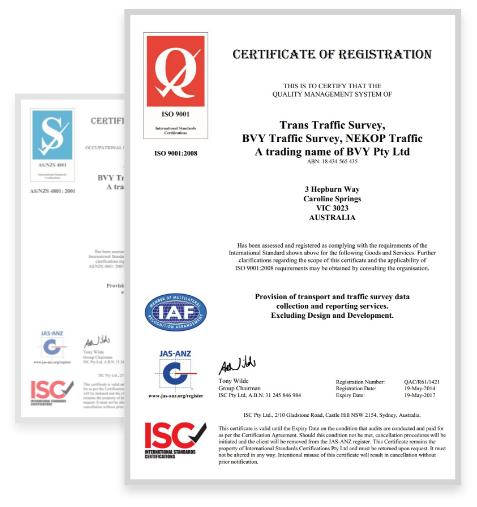
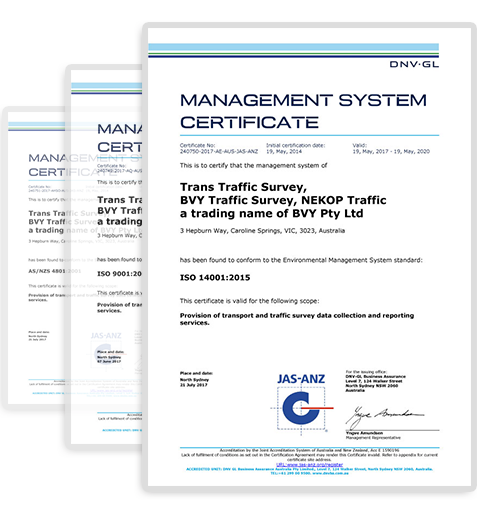
Changed header and make brighter

Changed region(s): [[0.0, 0.0, 1.0, 0.9763]]

diff --git a/css/style.css b/css/style.css
@@ -128,12 +128,12 @@ a:hover, a:focus {
 
  #menu .navbar-brand i.fa {
 	font-size: 18px;
-	color: #05C3CB;
+	color: #7fdce6;
 	vertical-align: top;
 } 
 #menu.navbar-default .navbar-nav > li > a {
 	text-transform: uppercase;
-	color: rgba(0,0,0,0.4);
+	color: rgba(0,0,0,0.5);
 	font-size: 0.875em;
 	letter-spacing: 1px;
 }
@@ -165,7 +165,7 @@ a:hover, a:focus {
 	color: #fff; /* #414a52;*/
 	font-weight: bold;
 	letter-spacing: 0.05em;
-	background-color: #05C3CB;
+	background-color: #7fdce6;
 	border: 0;
 	padding: 0.8em 3em;
 	margin: 0;
@@ -175,12 +175,12 @@ a:hover, a:focus {
 	transition: all 0.3s;
 }
 .btn-custom:hover, .btn-custom:focus, .btn-custom.focus, .btn-custom:active, .btn-custom.active {
-	background-color: #05C3CB;
+	background-color: #7fdce6;
 	color: #414a52;
 }
 .btn-default {
 	text-transform: uppercase;
-	color: #05C3CB;
+	color: #7fdce6;
 	background-color: #414a52;
 	border: 0;
 	padding: 14px 20px;
@@ -191,18 +191,19 @@ a:hover, a:focus {
 	transition: all 0.3s;
 }
 .btn-default:hover, .btn-default:focus, .btn-default.focus, .btn-default:active, .btn-default.active {
-	color: #05C3CB;
+	color: #7fdce6;
 	background-color: #343b42;
 }
 
 /* Header Section */
 #header {
-	background: url(../img/header-bg2.jpg) no-repeat left top;
+	 background: url(../img/header-bg4.jpg) no-repeat left top; 
 	background-color: #1a3359;
 	-webkit-background-size: cover;
 	-moz-background-size: cover;
 	background-size: cover;
-	-o-background-size: cover;
+  -o-background-size: cover;
+  /* background-image: linear-gradient(225deg, #3D4E81 0%, #5753C9 48%, #6E7FF3 100%); */
 }
 .intro {
 	width: 100%;
@@ -263,7 +264,7 @@ ul.certificate-links li::before {
 	font: normal normal normal 14px/1 FontAwesome;
 	-webkit-font-smoothing: antialiased;
 	content: "\f045";
-	color: #05C3CB;
+	color: #7fdce6;
 	margin-right: 0.75em;
 }
 
@@ -281,7 +282,7 @@ ul.checklist li::before {
 	margin-right: 0.75em;
 }
 .dark ul.checklist li::before {
-	color: #05C3CB;
+	color: #7fdce6;
 }
 #intro3 ul.checklist li {
 	font-size: 1.125em;
@@ -326,7 +327,7 @@ ul.checklist li::before {
 	background: -webkit-linear-gradient(top, rgba(84,208,221,1) 0%, rgba(84,208,221,1) 0%, rgba(84,208,221,1) 0%, rgba(127,220,230,1) 0%, rgba(84,208,221,1) 100%); /* Chrome10-25,Safari5.1-6 */
 	background: linear-gradient(to bottom, rgba(84,208,221,1) 0%, rgba(84,208,221,1) 0%, rgba(84,208,221,1) 0%, rgba(127,220,230,1) 0%, rgba(84,208,221,1) 100%); /* W3C, IE10+, FF16+, Chrome26+, Opera12+, Safari7+ */
 	filter: progid:DXImageTransform.Microsoft.gradient( startColorstr='#7fdce6', endColorstr='#7fdce6', GradientType=0 ); /* IE6-9 */
-	color: #414a52;
+  color: #414a52;
 }
 .dark {
 	/* Permalink - use to edit and share this gradient: http://colorzilla.com/gradient-editor/#1d3a63+0,1a3359+46,1a3359+100 */
@@ -338,7 +339,7 @@ ul.checklist li::before {
   background-image: linear-gradient(-225deg, #FFFEFF 0%, #D7FFFE 100%);
 }
 .blue {
-	color: #05C3CB;
+	color: #7fdce6;
 }
 .fa-jumbo {
 	font-size: 8em;
@@ -379,7 +380,7 @@ ul.checklist li::before {
 /* Contact Section */
 #contact {
 	color: #09A3AA;
-	background: #1a3359 url("../img/map.png") center no-repeat;
+	background: #0d3572 url("../img/map.png") center no-repeat;
 	background-size: contain;
 }
 #contact .section-title {
@@ -469,7 +470,7 @@ a:focus, .btn:focus, .btn:active:focus, .btn.active:focus, .btn.focus, .btn:acti
 	color: rgba(255,255,255,0.7);
 }
 #footer a:hover {
-	color: #05C3CB;
+	color: #7fdce6;
 }
 
 
